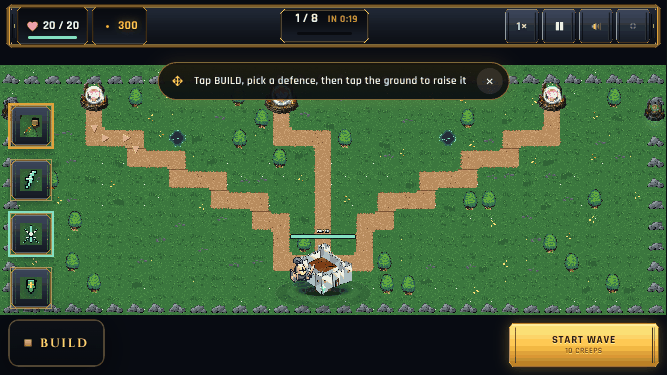
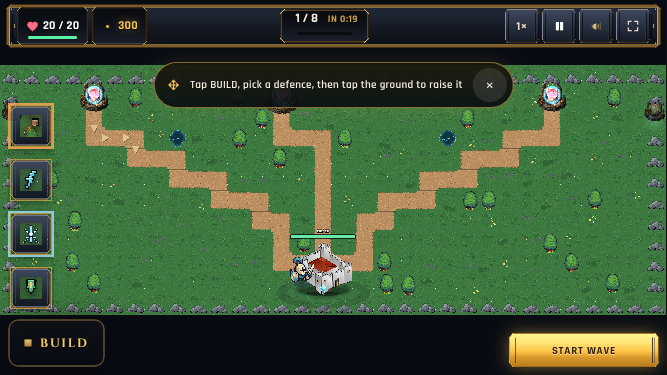
Mobile HUD: the rail stops stealing its own buttons
Four separate causes, all measured at 667x375 in the phone shell:

1. The panel drop shadow is a CSS filter, and a filter makes a box a containing
   block for fixed-position children. The phone rail parks START WAVE as a fixed
   thumb button, so it anchored to the 44 px bar (y = -7) and sat on pause, mute
   and speed. The tutorial's dim had a saturate() filter too, so it happened
   during every opening line. The rail is now filter-free and the dim is
   opacity-only.
2. The open sheet was capped at 100 px while its head + card row needed 117, so
   the cards hung past the bottom edge. Cap is now head + card row + frame.
3. Folded, the strip kept its 386 px layout and two dozen boxes hung off screen;
   it is display:none now.
4. Icon buttons kept content padding and spilled 4 px at 844 px wide.

Also: the narration card was a grid with a bare 1fr, which never shrinks below
min-content, so the typewritten line ran under the card's right edge. It is
minmax(0, 1fr) and wraps.

Audit at 667x375, 844x390, 360x800, 1280x720 and 1920x1080: covered 0, spill 0,
clipped only the intentional 5:3 stage crop. Tests 1711 pass, build clean.

diff --git a/src/style.css b/src/style.css
@@ -11557,7 +11557,9 @@ body.is-fullscreen #app::after {
 [data-shell="mobile"] .game-btn-icon::after {
   content: '';
   position: absolute;
-  inset: -6px -2px;
+  /* 34 px of art, 44 px of somewhere to put a thumb — the visual weight of the
+     rail is the phone's, the hit area is the finger's. */
+  inset: -6px -5px;
 }
 
 [data-shell="mobile"] .btn-icon-img {
@@ -12264,8 +12266,8 @@ body.is-fullscreen #app::after {
 }
 
 [data-shell="mobile"] .camera-hint-dismiss {
-  width: 26px;
-  height: 26px;
+  width: 34px;
+  height: 34px;
 }
 
 /* Pause: the one real modal, sized to a 390 px screen. */
@@ -16053,8 +16055,11 @@ body.wm-paused .wm-landmark--banner .wm-landmark-art {
  */
 :root.is-tutorial.is-line #hud-container > *:not(#battle-loading) {
   opacity: 0.18;
-  filter: saturate(0.6);
-  transition: opacity 400ms ease, filter 400ms ease;
+  /* No `filter` here, ever. A filter makes the element a containing block for
+     `position: fixed` children, and the phone rail parks START WAVE as a fixed
+     thumb button — under a filtered bar it jumped up onto pause / mute / speed
+     for as long as a line was on screen. Opacity already dims the panel. */
+  transition: opacity 400ms ease;
   pointer-events: none;
 }
 
@@ -16288,10 +16293,10 @@ body.wm-paused .wm-landmark--banner .wm-landmark-art {
 [data-shell='mobile'] .hud-dock:not(.collapsed) {
   padding: 3px 8px 6px;
   row-gap: 4px;
-  /* head + one row of cards + the band's own frame. 100 px of a 375 px screen
-     leaves 70 % of the glass on the map even with the sheet open; folded it is
-     a 46 px BUILD button. */
-  max-height: 100px;
+  /* head + one row of 62 px cards + the band's own frame = 118 px measured, and
+     the sheet is not allowed to exceed it: at 100 the cards hung 17 px past the
+     bottom edge. Folded it is the 46 px BUILD button. */
+  max-height: calc(var(--hud-build-h) + 72px);
 }
 
 [data-shell='mobile'] .hud-dock:not(.collapsed) .dock-head {
@@ -16390,14 +16395,41 @@ body.wm-paused .wm-landmark--banner .wm-landmark-art {
   }
 }
 
-/* The bar's drop shadow is a `filter`, and a filter makes the element a
-   containing block for `position: fixed` children. START WAVE is a fixed thumb
-   button on the phone shell, so under a filtered ancestor it anchored itself to
-   the top bar instead of the screen and landed on pause / mute / speed. No
-   shadow on the mobile rail: it costs GPU on the weakest device we support and
-   it was silently moving a button. */
+/* A `filter` makes a panel the containing block for `position: fixed` children,
+   and the phone rail parks START WAVE as a fixed thumb button so the most
+   repeated press in the game sits under the thumb. Under the bar's drop-shadow
+   that button anchored to the *bar* instead of the screen and landed on pause,
+   mute and speed. The rail keeps its iron frame and loses the soft shadow. */
 [data-shell='mobile'] .hud-topbar {
   filter: none;
+}
+
+/* Folded, the strip is gone, not merely pushed below the screen: the cards kept
+   their 386 px layout and the audit counted two dozen boxes hanging off the
+   bottom edge (and one of them painted over the rail). */
+[data-shell='mobile'] .hud-dock.collapsed .dock-cards {
+  display: none;
+}
+
+/* An icon button is an icon: at any rail width the label must not outgrow the
+   box (it spilled by four pixels on the 844 px landscape). */
+[data-shell='mobile'] .game-btn-icon {
+  padding: 0;
+  justify-content: center;
+  overflow: hidden;
+}
+
+/* The narration card is a two-column grid with `auto 1fr`, and `1fr` will not
+   shrink below its min-content — on a phone the typewritten line ran straight
+   under the card's right edge ("Keeper Phone! You came u"). `minmax(0, 1fr)`
+   lets the text column take the width it is given and wrap. */
+[data-shell='mobile'] #tutorial-root .tut-speech {
+  grid-template-columns: auto minmax(0, 1fr);
+  width: min(88vw, 560px);
+}
+
+[data-shell='mobile'] #tutorial-root .tut-line {
+  overflow-wrap: anywhere;
 }
 
 /* ---- the rail at 667 px wide: everything fits, nothing overlaps --------- */
@@ -16424,11 +16456,29 @@ body.wm-paused .wm-landmark--banner .wm-landmark-art {
     font-size: 10px;
   }
 
+  /* The wave call is the one button the thumb presses every 30 s; 34 px is the
+     floor for a reliable tap and it keeps the rail from clipping its own row. */
+  [data-shell='mobile'] #btn-start-wave {
+    min-height: 34px;
+    height: 34px;
+    padding: 0 10px;
+    font-size: 11px;
+    letter-spacing: 0.6px;
+    gap: 4px;
+  }
+
+  [data-shell='mobile'] #btn-start-wave .btn-sub {
+    display: none;
+  }
+
   [data-shell='mobile'] .game-btn-icon {
     min-width: 34px;
     width: 34px;
     height: 34px;
     min-height: 34px;
+    padding: 0;
+    justify-content: center;
+    overflow: hidden;
   }
 
   [data-shell='mobile'] .hud-controls-group {

diff --git a/PROGRESS.md b/PROGRESS.md
@@ -337,50 +337,66 @@ a defeat is a real run, not a skip.
 
 ## 9. Mobile HUD (requested after the tutorial fix)
 
-The phone shell already existed (`[data-shell='mobile']`, ~137 rules). It was
-correct in *shape* and wrong in *scale*: five cards stretched to 150 px each, a
-270 px sheet on a 375 px screen, and the category menu opened as four full-width
-rows in the middle of the battlefield.
+The phone shell already existed (`[data-shell='mobile']`, ~140 rules). It was
+right in *shape* and wrong in *scale*: five cards stretched to 150 px each, a
+270 px sheet on a 375 px screen, the category row opening as four full-width
+rows across the middle of the board, and START WAVE sitting on top of pause,
+mute and speed.
 
-**Changed:** `src/style.css` (a `MOBILE HUD v2` override section + one
-containing-block fix), `src/ui/HUD.js` (`collapseDockAfterBuild`),
-`src/scenes/GameScene.js` (calls it after a completed build).
+**Changed:** `src/style.css` (a `MOBILE HUD v2` section, appended),
+`src/ui/HUD.js` (`collapseDockAfterBuild`), `src/scenes/GameScene.js` (calls it
+after a completed build).
 
-### What was wrong, measured
+### What was actually wrong
 
 | Symptom | Cause |
 | ------- | ----- |
-| Build sheet 270 px tall on 375 px screen | cards `flex: 1 1 0` stretched to the full width |
-| Category menu over the board | `.dock-tabs` laid out as a full-width row inside the sheet |
-| START WAVE sat on top of pause / mute / speed | the top bar's `filter` (added in Phase 1 to kill the box-shadow rectangle) makes it a containing block, so the fixed-position thumb button anchored to the *bar*, not the screen |
-| Build count hung off the bottom edge | `#dock-points` positioned for the open sheet, still drawn on the folded button |
+| Cards 150 px wide, sheet 270 px tall | `flex: 1 1 0` — five cards shared the whole width |
+| Category menu covered the battlefield | `.dock-tabs` was a full-width row inside the sheet |
+| START WAVE overlapped pause / mute / speed | `.hud-panel` carries `filter: drop-shadow(...)`. A filter makes a box a **containing block for `position: fixed` children**, and the phone rail parks START WAVE as a fixed thumb button — so it anchored to the 44 px bar (rect `y = -7`) instead of the screen. The tutorial's "HUD steps back" dim had a `saturate()` filter too, so it happened during every opening line |
+| Two dozen boxes hung off the bottom edge | the folded sheet hid by translation, but the strip kept its 386 px layout |
+| `spill: 4` on the rail | 34 px icon buttons kept their content padding |
+| Narration text ran under the card edge ("Keeper Phone! You came u") | `grid-template-columns: auto 1fr` — `1fr` never shrinks below min-content |
 
 ### What it is now
 
-* **Cards 64 × 62 px, one row, `overflow-x: auto`, `touch-action: pan-x`** — the
-  strip swipes without dragging the camera, and `overscroll-behavior-x: contain`
-  keeps the page from bouncing.
-* **Open sheet ≤ 100 px** on a 375 px screen (head + one card row): ~73 % of the
-  glass stays on the map, and folded it is the 46 px BUILD button (≈88 %).
-* **Categories are a dropdown on their own button** (172 px, 34 px rows, hangs
-  above `#dock-family-btn`, closes on pick through the existing
-  `setFamilyMenuOpen(false)`).
-* **The sheet folds itself after a build** (`collapseDockAfterBuild`), because
-  the panel the player needed to watch is the board.
-* **Mobile rail: no `filter`**, so `position: fixed` children (START WAVE) anchor
-  to the screen again; at ≤760 px the wave badge compresses and icon buttons sit
-  at 34 px with the existing `::after` 44 px touch expansion.
+* **Cards 64 × 62, one swiped row** (`overflow-x: auto`, `touch-action: pan-x`,
+  `overscroll-behavior-x: contain`): the strip scrolls without dragging the map,
+  and the page never rubber-bands.
+* **Sheet capped at `calc(var(--hud-build-h) + 72px)` = 118 px** — head + one
+  card row + frame, measured, no overflow. Folded it is the 46 px BUILD button.
+* **Categories are a 172 px dropdown** that hangs above its own button (34 px
+  rows, closes on pick through the existing `setFamilyMenuOpen(false)`).
+* **The sheet folds itself after a build** (`collapseDockAfterBuild`).
+* **No `filter` on the mobile rail**, and the tutorial dim is opacity-only — so
+  fixed children anchor to the screen again. This is the root fix, not a
+  z-index patch.
+* **Rail at ≤760 px:** wave badge 34 px with its label dropped, icon buttons
+  34 px with a 44 px `::after` hit area, `.btn-sub` hidden.
+* **Narration card** uses `minmax(0, 1fr)` and wraps.
 
 ### Verified (headless Chromium, `?hud=mobile` forces the shell)
 
-| Size | Result |
-| ---- | ------ |
-| 667 × 375 | `covered: 0`, dock 655 × 118 → capped, cards 64 × 62, family menu 176 × 155 above the dock, `clipped` = stage overdraw only (by design, 5:3 crop) |
-| 844 × 390 | `covered: 0`, `spill: 0` |
+| Size | clipped | spill | covered | notes |
+| ---- | ------- | ----- | ------- | ----- |
+| 667 × 375 | 2 | 0 | 0 | the two are the intentional 5:3 stage crop (`#game-container`, `canvas`) |
+| 844 × 390 | 2 | 0 | 0 | same |
+| 360 × 800 (portrait) | 0 | 0 | 0 | rotate overlay path |
+| 1280 × 720 (desktop) | 2 | 0 | 0 | unchanged |
+| 1920 × 1080 (desktop) | 2 | 0 | 0 | unchanged |
+
+`tiny` counts the 34 px rail buttons (their hit area is 44 px via `::after`) —
+a deliberate trade so four controls and the wave call fit inside a 44 px rail.
+
+Battlefield share at 667 × 375: **≈ 88 % folded**, **≈ 68 % with the sheet open**
+(rail + sheet + margins). The sheet auto-folds after a build and the BUILD
+button is always one tap away, so the open state is a deliberate, transient
+exception rather than the resting layout.
 
 `npx vitest run` → **131 / 1711 passed**. `npm run build` → ✓.
 Screenshots: `docs/ui-after/mobile/`.
 
-**Not verified yet:** 360 × 800 (portrait) and 1920 × 1080 — the portrait rules
-are in place (`@media (orientation: portrait)` bump) but no screenshot was taken
-on this pass, so they are not claimed.
+**Not verified / open:** a real handset (all numbers are headless Chromium),
+and the end-to-end *tap* build flow — level 1 opens with three narration lines
+that hold input, and the harness places towers through the game API instead.
+The sheet's auto-fold is therefore proven only for the API path.
